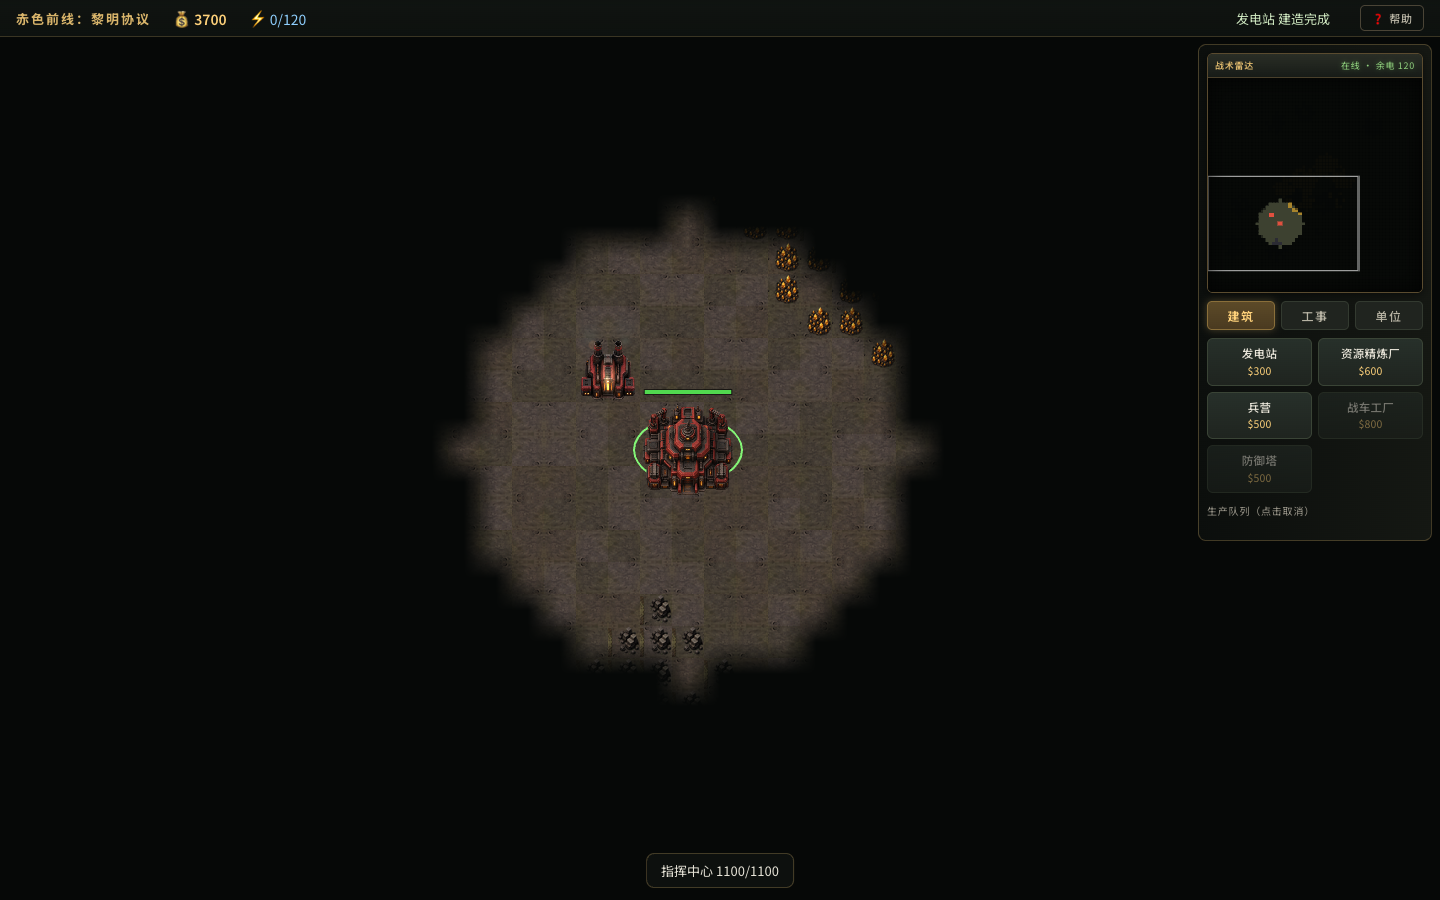
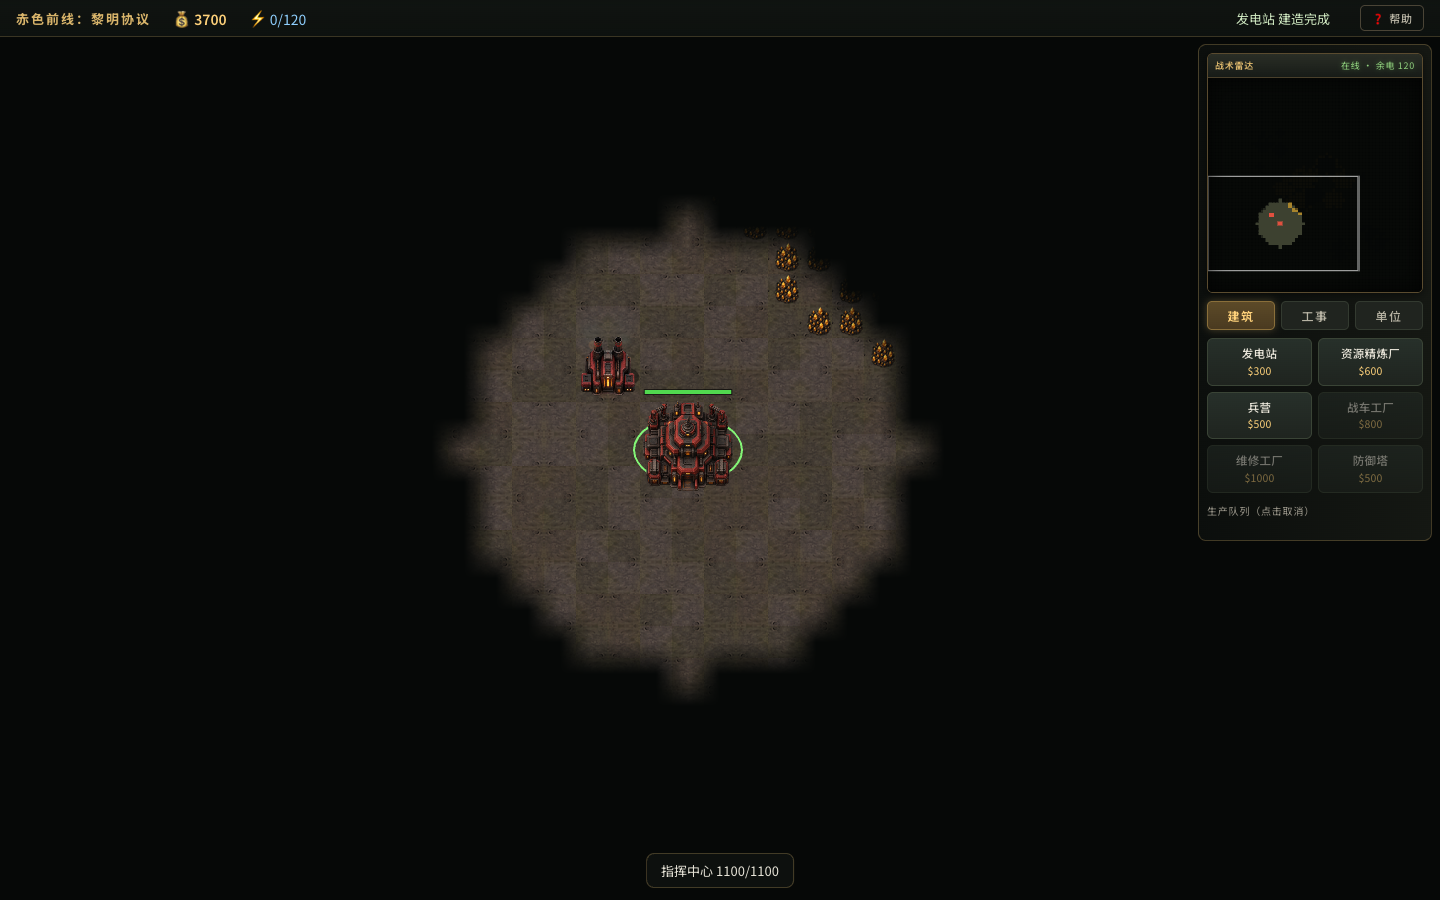
Add repair factory and pseudo-3D rendering

diff --git a/src/entities/Building.ts b/src/entities/Building.ts
@@ -1,7 +1,7 @@
 import { BUILDING_STATS, TILE, type BuildingKind, type BuildingStats, type Faction } from '../config';
 import { BaseEntity } from './BaseEntity';
 import type { GameScene } from '../scenes/GameScene';
-import { powerPlantArc, powerPlantFlame, powerPlantSmoke } from '../systems/Effects';
+import { powerPlantArc, powerPlantFlame, powerPlantSmoke, repairBeam } from '../systems/Effects';
 
 export class Building extends BaseEntity {
   readonly kind: BuildingKind;
@@ -28,6 +28,9 @@ export class Building extends BaseEntity {
   private plantSmokeSide = 1;
   private beaconGlow: Phaser.GameObjects.Arc | null = null;
   private beaconClock = 0;
+  private repairGlow: Phaser.GameObjects.Ellipse | null = null;
+  private repairFxClock = 0;
+  private repairFxTimer = 0;
 
   constructor(scene: GameScene, kind: BuildingKind, faction: Faction, tx: number, ty: number, instant = false) {
     const stats = BUILDING_STATS[kind];
@@ -41,9 +44,13 @@ export class Building extends BaseEntity {
     this.wt = stats.size[0];
     this.ht = stats.size[1];
     const [visualW, visualH] = stats.visualSize ?? [stats.size[0] * TILE, stats.size[1] * TILE];
+    const shadow = scene.add.ellipse(5, 7, visualW * 0.82, visualH * 0.46, 0x000000, 0.42);
+    shadow.setScale(1, 0.82);
+    this.add(shadow);
     const body = scene.add
       .image(0, 0, stats.textureKey ?? `b-${kind}-${faction}`)
-      .setDisplaySize(visualW, visualH);
+      .setDisplaySize(visualW, visualH)
+      .setPosition(0, -4);
     this.add(body);
     if (kind === 'powerPlant') {
       this.plantFx = scene.add.container(0, 0);
@@ -62,13 +69,18 @@ export class Building extends BaseEntity {
       this.beaconGlow.setBlendMode(Phaser.BlendModes.ADD);
       this.add(this.beaconGlow);
     }
+    if (kind === 'repairFactory') {
+      this.repairGlow = scene.add.ellipse(0, 7, 56, 20, 0x6dffd2, 0.12);
+      this.repairGlow.setBlendMode(Phaser.BlendModes.ADD);
+      this.add(this.repairGlow);
+    }
     this.rallyGfx = scene.add.graphics();
     this.add(this.rallyGfx);
     if (kind === 'turret') {
-      this.head = scene.add.image(0, 0, `turret-head-${faction}`).setDisplaySize(44, 44);
+      this.head = scene.add.image(0, -4, `turret-head-${faction}`).setDisplaySize(44, 44);
       this.add(this.head);
     }
-    this.setDepth(15);
+    this.setDepth(20 + (ty + stats.size[1]) * TILE * 0.001);
     if (instant || stats.buildTime <= 0) {
       this.active = true;
     } else {
@@ -155,6 +167,42 @@ export class Building extends BaseEntity {
     }
     if (this.kind === 'powerPlant') this.updatePowerPlantEffects(dt);
     if (this.kind === 'beacon') this.updateBeaconEffects(dt);
+    if (this.kind === 'repairFactory') this.updateRepairFactory(dt);
+  }
+
+  private updateRepairFactory(dt: number): void {
+    if (!this.repairGlow) return;
+    this.repairFxClock += dt;
+    const powered = this.gs.powerOk(this.faction);
+    const pulse = 0.5 + Math.sin(this.repairFxClock * 6.5) * 0.5;
+    const factionColor = this.faction === 'player' ? 0x6dffd2 : 0xb99cff;
+    this.repairGlow
+      .setFillStyle(powered ? factionColor : 0xff684b)
+      .setAlpha(powered ? 0.08 + pulse * 0.17 : 0.04 + pulse * 0.03)
+      .setScale(0.9 + pulse * 0.18, 0.9 + pulse * 0.12);
+    if (!powered) return;
+
+    const range = this.stats.repairRange ?? 0;
+    const rate = this.stats.repairRate ?? 0;
+    const targets = this.gs.units.filter(
+      (u) =>
+        u.faction === this.faction &&
+        u.alive &&
+        u.canAttack &&
+        u.hp < u.maxHp &&
+        Phaser.Math.Distance.Between(this.x, this.y, u.x, u.y) <= range,
+    );
+    for (const unit of targets) unit.heal(rate * dt);
+    if (targets.length === 0 || !this.visible) return;
+
+    this.repairFxTimer -= dt;
+    if (this.repairFxTimer <= 0) {
+      this.repairFxTimer = 0.24;
+      const target = targets.reduce((best, unit) =>
+        unit.hp / unit.maxHp < best.hp / best.maxHp ? unit : best,
+      );
+      repairBeam(this.gs, this.x, this.y - 8, target.x, target.y, factionColor);
+    }
   }
 
   private updateBeaconEffects(dt: number): void {
@@ -195,6 +243,13 @@ export class Building extends BaseEntity {
 
   drawOverlay(): void {
     super.drawOverlay();
+    if (this.selected && this.kind === 'repairFactory') {
+      const range = this.stats.repairRange ?? 0;
+      this.overlay.fillStyle(0x6dffd2, 0.025);
+      this.overlay.fillCircle(0, 0, range);
+      this.overlay.lineStyle(1.5, 0x6dffd2, 0.42);
+      this.overlay.strokeCircle(0, 0, range);
+    }
     if (!this.active) {
       // 施工进度条（黄色）
       const w = Math.max(26, this.footW * 0.8);

diff --git a/src/entities/Unit.ts b/src/entities/Unit.ts
@@ -11,6 +11,10 @@ export class Unit extends BaseEntity {
   readonly stats: UnitStats;
   readonly isBuilding = false;
   sprite: Phaser.GameObjects.Image;
+  private readonly visualSize: number;
+  private castShadow: Phaser.GameObjects.Ellipse;
+  private contactShadow: Phaser.GameObjects.Ellipse;
+  private motionClock = 0;
 
   moveTarget: { x: number; y: number } | null = null;
   attackTarget: BaseEntity | null = null;
@@ -37,7 +41,16 @@ export class Unit extends BaseEntity {
     super(scene, x, y, faction, stats.hp);
     this.kind = kind;
     this.stats = stats;
-    this.sprite = scene.add.image(0, 0, `u-${kind}-${faction}`).setDisplaySize(stats.texSize, stats.texSize);
+    const infantryScale = kind === 'infantry' || kind === 'rocket' ? 1.1 : 1.24;
+    this.visualSize = stats.texSize * infantryScale;
+    this.castShadow = scene.add.ellipse(5, 6, this.visualSize * 0.7, this.visualSize * 0.3, 0x000000, 0.38);
+    this.castShadow.setScale(1, 0.78);
+    this.addAt(this.castShadow, 0);
+    this.contactShadow = scene.add.ellipse(0, 3, this.visualSize * 0.46, this.visualSize * 0.17, 0x000000, 0.58);
+    this.addAt(this.contactShadow, 1);
+    this.sprite = scene.add
+      .image(0, -4, `u-${kind}-${faction}`)
+      .setDisplaySize(this.visualSize, this.visualSize);
     this.add(this.sprite);
     this.sprite.setDepth(0);
     if (kind === 'mcv') {
@@ -65,11 +78,11 @@ export class Unit extends BaseEntity {
   }
 
   get footW(): number {
-    return this.stats.texSize + 14;
+    return this.visualSize + 12;
   }
 
   get barY(): number {
-    return -this.stats.texSize / 2 - 12;
+    return -this.visualSize / 2 - 14;
   }
 
   get canAttack(): boolean {
@@ -112,20 +125,38 @@ export class Unit extends BaseEntity {
     } else {
       this.updateCombat(dt);
     }
-    if (this.kind === 'mcv') {
-      const moved = Phaser.Math.Distance.Between(beforeX, beforeY, this.x, this.y) > 0.05;
-      this.updateMcvEffects(dt, moved);
-    }
+    const moved = Phaser.Math.Distance.Between(beforeX, beforeY, this.x, this.y) > 0.05;
+    this.updatePseudo3d(dt, moved);
+    if (this.kind === 'mcv') this.updateMcvEffects(dt, moved);
+  }
+
+  /** 伪 3D：离地投影、车体高度与移动悬挂起伏，逻辑坐标仍保持二维网格。 */
+  private updatePseudo3d(dt: number, moving: boolean): void {
+    this.motionClock += dt;
+    const infantry = this.kind === 'infantry' || this.kind === 'rocket';
+    const amplitude = moving ? (infantry ? 0.45 : 0.85) : infantry ? 0.08 : 0.16;
+    const speed = moving ? (infantry ? 13 : 9.5) : 2.8;
+    const bob = Math.sin(this.motionClock * speed + this.id * 0.73) * amplitude;
+    const sway = moving ? Math.cos(this.motionClock * speed * 0.5 + this.id) * (infantry ? 0.25 : 0.38) : 0;
+    const lift = infantry ? -2.2 : -4.2;
+    this.sprite.setPosition(sway, lift + bob);
+    this.castShadow
+      .setPosition(5 - sway * 0.25, 6)
+      .setScale(1 - bob * 0.025, 0.78 - bob * 0.018)
+      .setAlpha(0.34 - bob * 0.018);
+    this.contactShadow.setScale(1 - bob * 0.02, 1 - bob * 0.035).setAlpha(0.54 - bob * 0.025);
+    this.setDepth(20 + this.y * 0.001);
   }
 
   private updateMcvEffects(dt: number, moving: boolean): void {
     if (!this.mcvFx || !this.mcvEngineGlow) return;
     this.mcvFxClock += dt;
-    const vibration = moving ? 0.65 : 0.38;
+    const vibration = moving ? 0.42 : 0.24;
     const jitterX = Math.sin(this.mcvFxClock * 31) * vibration;
     const jitterY = Math.cos(this.mcvFxClock * 27) * vibration * 0.65;
-    this.sprite.setPosition(jitterX, jitterY);
-    this.mcvFx.setPosition(jitterX, jitterY).setRotation(this.sprite.rotation);
+    this.mcvFx
+      .setPosition(this.sprite.x + jitterX, this.sprite.y + jitterY)
+      .setRotation(this.sprite.rotation);
 
     const enginePulse = 0.5 + Math.sin(this.mcvFxClock * 18) * 0.5;
     this.mcvEngineGlow.setAlpha(0.1 + enginePulse * 0.2).setScale(0.86 + enginePulse * 0.25);

diff --git a/src/config.ts b/src/config.ts
@@ -46,6 +46,7 @@ export type BuildingKind =
   | 'refinery'
   | 'barracks'
   | 'warFactory'
+  | 'repairFactory'
   | 'turret'
   | 'groundPatch'
   | 'rockBarrier'
@@ -174,6 +175,8 @@ export interface BuildingStats {
   range?: number; // 防御塔射程
   damage?: number;
   cooldown?: number;
+  repairRange?: number; // 维修工厂作用半径（像素）
+  repairRate?: number; // 每个单位每秒恢复生命值
   textureKey?: string; // 无阵营差异的工事素材
   visualSize?: [number, number]; // 视觉尺寸（像素），可与占地不同
   blocksMovement?: boolean; // 默认阻挡
@@ -231,6 +234,18 @@ export const BUILDING_STATS: Record<BuildingKind, BuildingStats> = {
     size: [3, 2],
     power: -40,
     sight: 5,
+  },
+  repairFactory: {
+    name: '维修工厂',
+    desc: '自动维修范围内受伤的作战单位，需要电力',
+    cost: 1000,
+    buildTime: 12,
+    hp: 760,
+    size: [3, 2],
+    power: -45,
+    sight: 5,
+    repairRange: 176,
+    repairRate: 20,
   },
   turret: {
     name: '防御塔',
@@ -377,6 +392,7 @@ export const BUILD_PREREQ: Partial<Record<BuildingKind, BuildingKind>> = {
   barracks: 'powerPlant',
   refinery: 'powerPlant',
   warFactory: 'refinery',
+  repairFactory: 'warFactory',
   turret: 'barracks',
 };
 
@@ -386,7 +402,14 @@ export const FACTION_COLORS = {
 } as const;
 
 export const UNIT_KINDS: UnitKind[] = ['infantry', 'rocket', 'lightTank', 'heavyTank', 'harvester', 'mcv'];
-export const BUILDING_KINDS: BuildingKind[] = ['powerPlant', 'refinery', 'barracks', 'warFactory', 'turret'];
+export const BUILDING_KINDS: BuildingKind[] = [
+  'powerPlant',
+  'refinery',
+  'barracks',
+  'warFactory',
+  'repairFactory',
+  'turret',
+];
 export const FORTIFICATION_KINDS: BuildingKind[] = [
   'groundPatch',
   'rockBarrier',

diff --git a/src/systems/Effects.ts b/src/systems/Effects.ts
@@ -71,6 +71,50 @@ export function floatText(scene: GameScene, x: number, y: number, text: string, 
   });
 }
 
+/** 维修工厂到受损单位的短促能量束与焊接火花。 */
+export function repairBeam(
+  scene: GameScene,
+  x1: number,
+  y1: number,
+  x2: number,
+  y2: number,
+  color = 0x6dffd2,
+): void {
+  const beam = scene.add.line(0, 0, x1, y1, x2, y2 - 3, color, 0.78).setOrigin(0, 0).setDepth(610);
+  beam.setLineWidth(1.5);
+  beam.setBlendMode(Phaser.BlendModes.ADD);
+  scene.tweens.add({
+    targets: beam,
+    alpha: 0,
+    duration: 190,
+    onComplete: () => beam.destroy(),
+  });
+
+  const pulse = scene.add.circle(x2, y2 - 3, 4, color, 0.9).setDepth(611);
+  pulse.setBlendMode(Phaser.BlendModes.ADD);
+  scene.tweens.add({
+    targets: pulse,
+    scale: 2.1,
+    alpha: 0,
+    duration: 260,
+    onComplete: () => pulse.destroy(),
+  });
+
+  for (let i = 0; i < 3; i++) {
+    const spark = scene.add.circle(x2, y2 - 3, 1.3, 0xffdb72, 0.95).setDepth(612);
+    const a = Phaser.Math.FloatBetween(-Math.PI, Math.PI);
+    const d = Phaser.Math.Between(7, 14);
+    scene.tweens.add({
+      targets: spark,
+      x: x2 + Math.cos(a) * d,
+      y: y2 - 3 + Math.sin(a) * d,
+      alpha: 0,
+      duration: Phaser.Math.Between(180, 300),
+      onComplete: () => spark.destroy(),
+    });
+  }
+}
+
 /** 基地工程车引擎排气；移动时同时扬起履带尘土。 */
 export function engineExhaust(scene: GameScene, x: number, y: number, heading: number, moving: boolean): void {
   const backX = -Math.cos(heading);

diff --git a/src/scenes/BootScene.ts b/src/scenes/BootScene.ts
@@ -206,6 +206,20 @@ function drawBuilding(g: G, kind: BuildingKind, c: (typeof FACTION_COLORS)[Facti
       g.fillRect(w * 0.08, h * 0.12, 8, 8);
       break;
     }
+    case 'repairFactory': {
+      g.fillStyle(0x303138, 1);
+      g.fillRect(w * 0.08, h * 0.18, w * 0.84, h * 0.7);
+      g.fillStyle(c.dark, 1);
+      g.fillRect(w * 0.26, h * 0.38, w * 0.48, h * 0.5);
+      g.lineStyle(3, c.accent, 1);
+      g.strokeRect(w * 0.29, h * 0.41, w * 0.42, h * 0.43);
+      g.fillStyle(0xe8b23a, 1);
+      for (let i = 0; i < 5; i++) g.fillRect(w * (0.16 + i * 0.14), h * 0.2, 7, 4);
+      g.lineStyle(3, 0x51545c, 1);
+      g.lineBetween(w * 0.12, h * 0.3, w * 0.3, h * 0.52);
+      g.lineBetween(w * 0.88, h * 0.3, w * 0.7, h * 0.52);
+      break;
+    }
     case 'turret': {
       g.fillStyle(c.dark, 1);
       g.fillCircle(w / 2, h / 2, 12);

diff --git a/src/ui/HUD.ts b/src/ui/HUD.ts
@@ -195,7 +195,7 @@ export class HUD {
               <li>④ 指挥中心提供固定建造圈；远处扩张需再部署一辆<b>基地工程车</b></li>
               <li>⑤ 回“建筑”页，在绿色范围内建<b>兵营</b></li>
               <li>⑥ 兵营完工后打开“单位”页训练<b>步兵</b></li>
-              <li>⑦ 精炼厂 → <b>战车工厂</b>解锁坦克，<b>防御塔</b>守家</li>
+              <li>⑦ 精炼厂 → <b>战车工厂</b>解锁坦克，再建<b>维修工厂</b>自动修复附近作战单位</li>
               <li>⑧ “工事”页可部署城墙、障碍、警戒灯与矿脉</li>
               <li>⑨ 攒一波装甲部队，端掉对面老家</li>
             </ul>

diff --git a/src/entities/BaseEntity.ts b/src/entities/BaseEntity.ts
@@ -53,6 +53,15 @@ export abstract class BaseEntity extends Phaser.GameObjects.Container {
     this.drawOverlay();
   }
 
+  /** 恢复生命值并返回本次实际修复量。 */
+  heal(n: number): number {
+    if (!this.alive || n <= 0 || this.hp >= this.maxHp) return 0;
+    const before = this.hp;
+    this.hp = Math.min(this.maxHp, this.hp + n);
+    this.drawOverlay();
+    return this.hp - before;
+  }
+
   drawOverlay(): void {
     const g = this.overlay;
     g.clear();

diff --git a/src/systems/EnemyAI.ts b/src/systems/EnemyAI.ts
@@ -19,6 +19,7 @@ export class EnemyAI {
     'refinery',
     'barracks',
     'warFactory',
+    'repairFactory',
     'powerPlant',
     'turret',
     'turret',

diff --git a/README.md b/README.md
@@ -92,7 +92,10 @@ npm run smoke      # 自动化试玩测试（需本机装有 Chrome，且 dev se
 | 资源精炼厂 | 接收矿石变现，**完工附赠一辆采矿车** |
 | 兵营 | 训练步兵、火箭兵 |
 | 战车工厂 | 生产轻型/重型坦克、采矿车、基地工程车 |
+| 维修工厂 | 自动维修半径内的受伤作战单位；需要战车工厂与稳定供电 |
 | 防御塔 | 自动攻击射程内敌人，电力不足时瘫痪 |
+
+![维修工厂透明素材](src/assets/generated/buildings/repairFactory-neutral.png)
 
 建造有**固定范围限制**：每辆基地工程车部署后，会以新的指挥中心为核心生成一块独立的 8 格建造圈；电站、兵营、城墙等设施都不能继续向外延伸边界。想在远处开分基地，必须生产基地工程车、开到目标位置后再次部署。放置建筑时会显示所有指挥中心的半透明绿色边界；失去一个分基地不会立刻战败，只有全部指挥中心被摧毁才失败。科技建筑仍有前置要求（如战车工厂需要先建精炼厂）。
 
@@ -118,7 +121,7 @@ npm run smoke      # 自动化试玩测试（需本机装有 Chrome，且 dev se
 ### 经济与电力
 
 - 采矿车全自动运行：寻矿 → 开采 → 返回精炼厂 → 变现入账；矿脉会枯竭。
-- 建筑耗电、电站供电；**电力不足时生产速度减半、防御塔停摆**，顶部电力指示会变红闪烁。
+- 建筑耗电、电站供电；**电力不足时生产速度减半、防御塔与维修工厂停摆**，顶部电力指示会变红闪烁。
 - 生产队列上限 5 个，点击队列项可取消并返还费用。
 
 ### 战场
@@ -126,6 +129,7 @@ npm run smoke      # 自动化试玩测试（需本机装有 Chrome，且 dev se
 - **战争迷雾**：未探索区域全黑，已探索区域可见地形与建筑轮廓，敌单位只在视野内现身。
 - **战术雷达**：位于右侧面板顶部；默认离线，剩余电力达到 30 点后显示地形、迷雾、敌我单位与视野框，电力不足时自动关闭。
 - 单位自动索敌反击；选中敌人右键可集火；生命值与选中状态实时显示。
+- 战车与建筑使用斜俯视透明素材，并叠加方向性投影、前后遮挡排序和移动悬挂起伏，形成不改变网格玩法的伪 3D 战场。
 
 ## 项目结构
 
@@ -158,4 +162,4 @@ scripts/
 
 ## 验证
 
-`npm run smoke` 会用本机 Chrome 真实加载游戏，模拟鼠标键盘完成：部署指挥中心 → 建电站/精炼厂/兵营 → 采矿增收 → 点选与右键移动 → 生产步兵 → 工事放置与阻挡 → 基地车异地扩张 → 自动交火 → 迷雾遮蔽 → AI 扩张 → 胜负判定，共 29 项断言，并输出截图到 `scripts/shots/`。
+`npm run smoke` 会用本机 Chrome 真实加载游戏，模拟鼠标键盘完成：部署指挥中心 → 建电站/精炼厂/兵营 → 采矿增收 → 点选与右键移动 → 生产步兵 → 维修工厂自动回血 → 工事放置与阻挡 → 基地车异地扩张 → 自动交火 → 迷雾遮蔽 → AI 扩张 → 胜负判定，共 32 项断言，并输出截图到 `scripts/shots/`。
